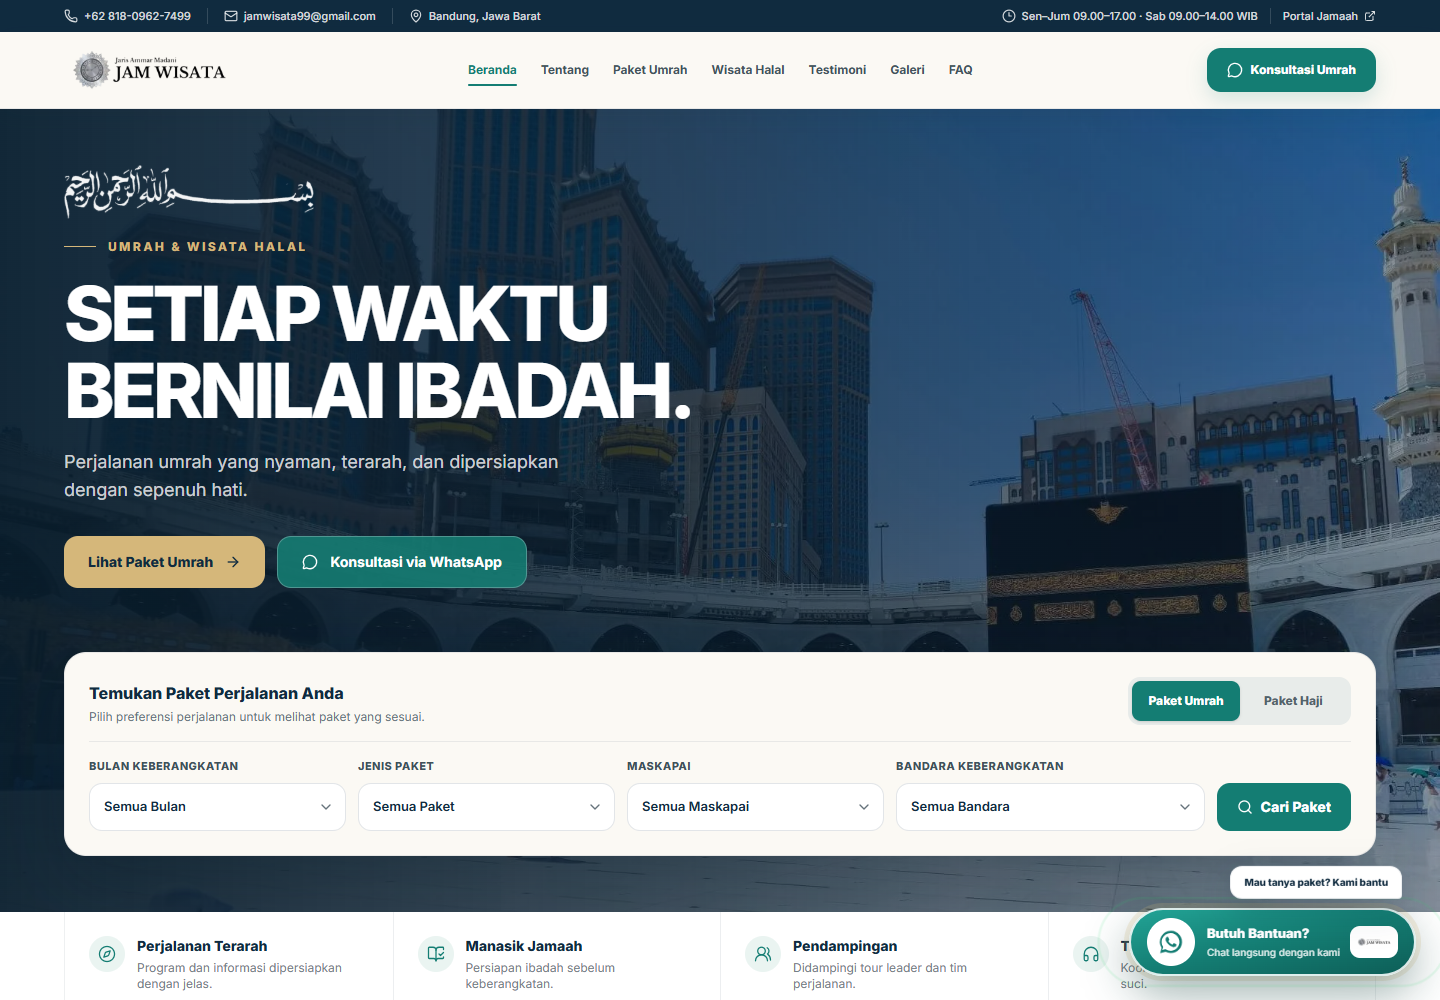
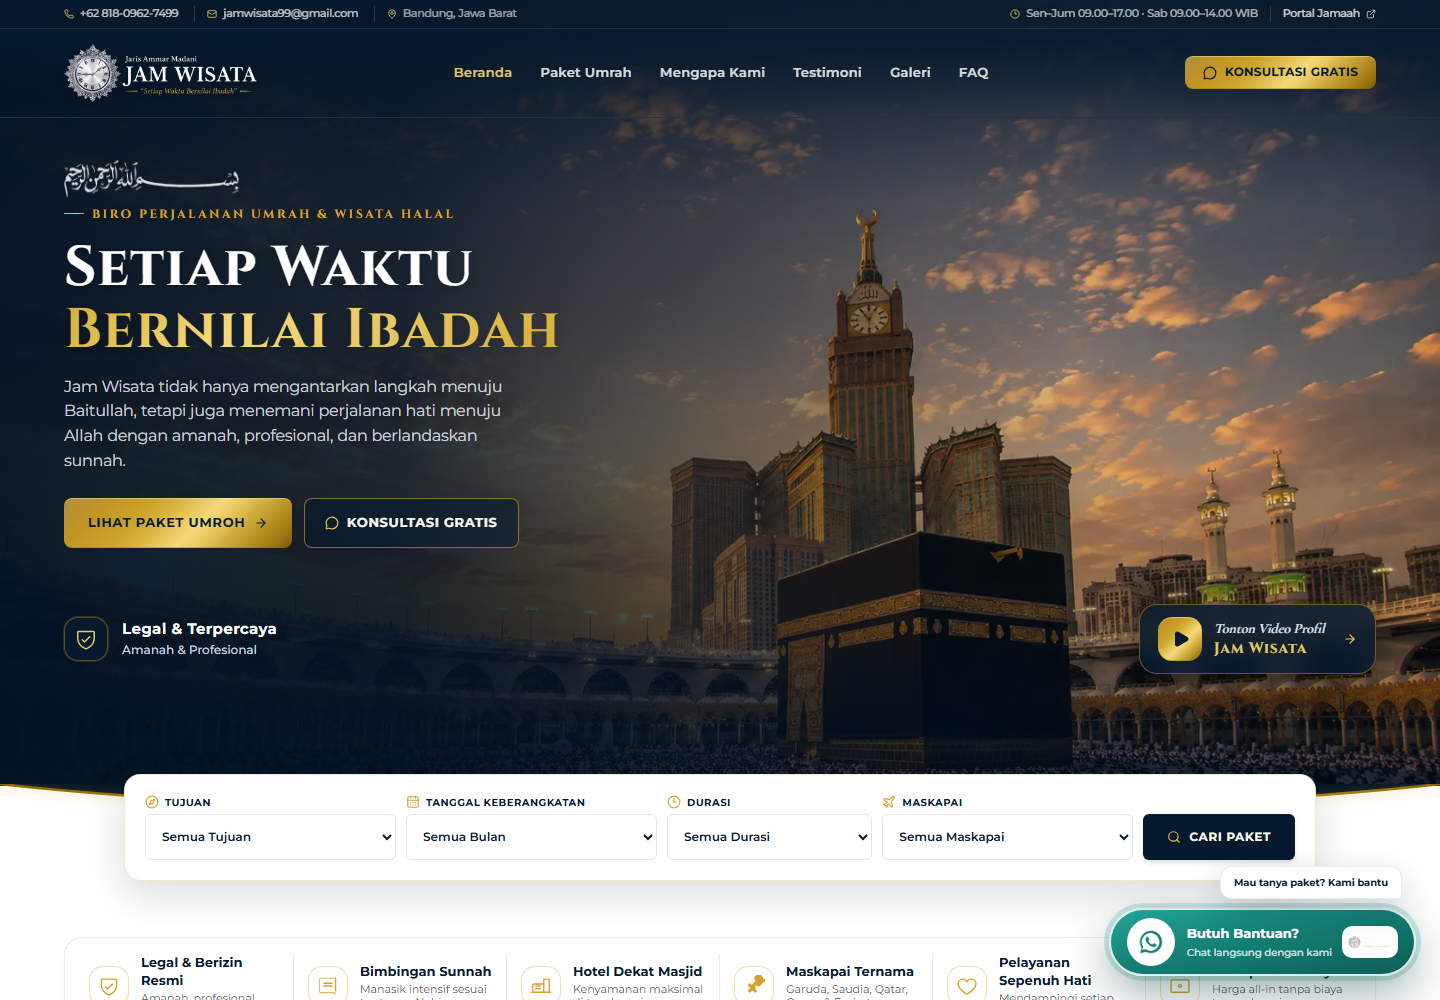
feat(work): add latest client projects

diff --git a/src/lib/work-content.ts b/src/lib/work-content.ts
@@ -9,6 +9,10 @@ export const featuredWorkSlugs = [
 
 export const selectedWorkSlugs = [
   "newsraya",
+  "dewa-konstruksi",
+  "dimsum",
+  "sewa-elf-bandung",
+  "add-logistics-landing-page",
   "studyshare",
   "sahabat-qolbu",
   "spectrasec",
@@ -60,7 +64,7 @@ export const workProjects: Record<WorkSlug, WorkProject> = {
     title: "JamWisata",
     category: { id: "Business Website · Tour & Travel", en: "Business Website · Tour & Travel" },
     image: "/images/work/jamwisata.png",
-    website: "https://jamwisata.hammad.studio/",
+    website: "https://www.jamwisata.id/",
     overview: { id: "Website Umrah dan wisata halal yang menyatukan brand, pencarian paket, jadwal keberangkatan, fasilitas, galeri, testimoni, serta konsultasi WhatsApp.", en: "An Umrah and halal travel website combining brand, package discovery, departure schedules, facilities, galleries, testimonials, and WhatsApp consultation." },
     challenge: { id: "Menyajikan banyak informasi perjalanan tanpa menghilangkan rasa tenang, kredibilitas, dan kemudahan calon jamaah menemukan paket.", en: "Presenting extensive travel information without losing calm, credibility, or making package discovery difficult for prospective pilgrims." },
     built: { id: "Experience travel dengan package finder, katalog Umrah dan wisata halal, trust signals, dokumentasi jamaah, FAQ, serta jalur konsultasi.", en: "A travel experience with package finder, Umrah and halal tour catalogues, trust signals, pilgrim documentation, FAQs, and consultation paths." },
@@ -397,7 +401,7 @@ export const workProjects: Record<WorkSlug, WorkProject> = {
       en: "Corporate Website · Logistics",
     },
     image: "/images/work/buraq-logistik.png",
-    website: "https://buraqlogistik.com/",
+    website: "https://buraqlogistik.hammad.studio/",
     overview: {
       id: "Website corporate untuk perusahaan logistik yang mengkomunikasikan layanan trucking, distribusi regional, cakupan pengiriman, dan kapabilitas operasional.",
       en: "A corporate website for a logistics company communicating trucking services, regional distribution, shipping coverage, and operational capabilities.",
@@ -543,6 +547,62 @@ export const workProjects: Record<WorkSlug, WorkProject> = {
       id: "Experience media yang terasa aktual, terstruktur, dan nyaman dipindai dari desktop maupun perangkat mobile.",
       en: "A media experience that feels current, structured, and easy to scan across desktop and mobile devices.",
     },
+    next: "dewa-konstruksi",
+  }),
+  "dewa-konstruksi": project({
+    slug: "dewa-konstruksi",
+    title: "Dewa Konstruksi",
+    category: { id: "Business Website · Construction", en: "Business Website · Construction" },
+    image: "/images/work/dewa-konstruksi.png",
+    website: "https://dewakonstruksi.hammad.studio/",
+    overview: { id: "Website kontraktor rumah untuk memperkenalkan layanan bangun baru, renovasi, perencanaan, portofolio proyek, proses kerja, dan konsultasi.", en: "A residential contractor website presenting new builds, renovations, planning, project work, process, and consultation." },
+    challenge: { id: "Membangun kepercayaan calon pemilik rumah melalui pesan yang tegas, proses yang transparan, dan bukti pekerjaan yang mudah dipahami.", en: "Building homeowner confidence through clear messaging, a transparent process, and easy-to-understand proof of work." },
+    built: { id: "Landing bisnis dengan hero berorientasi konsultasi, hierarchy layanan, showcase proyek, tahapan kerja, informasi tim, artikel, dan CTA WhatsApp.", en: "A consultation-led business landing page with service hierarchy, project showcase, work stages, team information, articles, and WhatsApp calls to action." },
+    experience: { id: "Pengunjung dapat memahami cakupan pembangunan, melihat cara kerja tim, meninjau proyek, lalu memulai konsultasi dengan cepat.", en: "Visitors can understand the construction scope, review the team's process and projects, then start a consultation quickly." },
+    features: ["Construction services", "Project showcase", "Work process", "Trust signals", "Articles", "WhatsApp consultation"],
+    outcome: { id: "Kehadiran digital kontraktor yang terlihat profesional sekaligus memudahkan calon klien memulai pembicaraan proyek.", en: "A professional contractor presence that makes it easier for prospective clients to begin a project conversation." },
+    next: "dimsum",
+  }),
+  dimsum: project({
+    slug: "dimsum",
+    title: "LalaGi Dimsum",
+    category: { id: "Commerce Website · Food & Beverage", en: "Commerce Website · Food & Beverage" },
+    image: "/images/work/dimsum.png",
+    website: "https://dimsum.hammad.studio/",
+    overview: { id: "Website kuliner untuk brand dimsum dengan menu, pilihan produk, pesanan acara, trust signal halal, dan pemesanan melalui WhatsApp.", en: "A culinary website for a dimsum brand with menus, product selections, event orders, halal trust signals, and WhatsApp ordering." },
+    challenge: { id: "Membuat produk makanan terasa menggugah secara visual sekaligus menjaga informasi menu dan jalur pemesanan tetap sederhana.", en: "Making the food feel visually appetising while keeping menu information and ordering straightforward." },
+    built: { id: "Storefront hangat dengan visual produk besar, navigasi menu, penawaran pesanan acara, brand story, dan CTA pesan yang selalu mudah dijangkau.", en: "A warm storefront with large product visuals, menu navigation, event-order offerings, brand story, and easily accessible ordering calls to action." },
+    experience: { id: "Customer dapat mengenal brand, menjelajahi menu, memilih kebutuhan personal atau acara, lalu memesan melalui WhatsApp.", en: "Customers can discover the brand, browse the menu, choose personal or event needs, and order through WhatsApp." },
+    features: ["Food menu", "Product showcase", "Event orders", "Halal trust signal", "Brand story", "WhatsApp ordering"],
+    outcome: { id: "Website kuliner yang mengubah visual produk menjadi jalur pemesanan yang jelas dan mobile-friendly.", en: "A culinary website turning strong product visuals into a clear, mobile-friendly ordering journey." },
+    next: "sewa-elf-bandung",
+  }),
+  "sewa-elf-bandung": project({
+    slug: "sewa-elf-bandung",
+    title: "Sewa Elf Bandung",
+    category: { id: "Rental Website · Transportation", en: "Rental Website · Transportation" },
+    image: "/images/work/sewa-elf-bandung.png",
+    website: "https://www.sewaelfbandung.com/",
+    overview: { id: "Website rental kendaraan rombongan di Bandung dengan armada, harga sewa, layanan perjalanan, area operasional, dan booking WhatsApp.", en: "A Bandung group-transport rental website with fleets, rental pricing, travel services, operating areas, and WhatsApp booking." },
+    challenge: { id: "Menyajikan pilihan armada dan layanan perjalanan agar mudah dibandingkan oleh keluarga, perusahaan, sekolah, maupun rombongan wisata.", en: "Presenting fleet and trip options that families, companies, schools, and tour groups can compare easily." },
+    built: { id: "Website rental dengan hero armada, price guidance, katalog kendaraan, service advantages, profil bisnis, lokasi, dan jalur booking langsung.", en: "A rental website with fleet-led hero, price guidance, vehicle catalogue, service advantages, business profile, location, and direct booking journey." },
+    experience: { id: "Calon penyewa dapat memahami kapasitas kendaraan, mengecek pilihan layanan, lalu meminta ketersediaan melalui WhatsApp.", en: "Prospective renters can understand vehicle capacity, review service options, then ask for availability through WhatsApp." },
+    features: ["Fleet catalogue", "Rental pricing", "Service coverage", "Vehicle capacity", "Business profile", "WhatsApp booking"],
+    outcome: { id: "Katalog rental yang mempercepat perjalanan dari pencarian kendaraan menuju permintaan booking.", en: "A rental catalogue shortening the journey from vehicle discovery to a booking request." },
+    next: "add-logistics-landing-page",
+  }),
+  "add-logistics-landing-page": project({
+    slug: "add-logistics-landing-page",
+    title: "ADD Logistics Landing Page",
+    category: { id: "Landing Page · Logistics", en: "Landing Page · Logistics" },
+    image: "/images/work/add-logistics-landing-page.png",
+    website: "https://add-logistics-landingpage.vercel.app/",
+    overview: { id: "Landing page PT Antaran Dua Dunia yang memadatkan layanan transportasi darat, armada, cakupan pengiriman, legalitas, dan konsultasi dalam satu halaman.", en: "A PT Antaran Dua Dunia landing page condensing land transportation, fleet, delivery coverage, legal information, and consultation into one page." },
+    challenge: { id: "Menyederhanakan informasi logistik B2B menjadi halaman ringkas yang tetap menunjukkan kapabilitas, keamanan, dan kredibilitas perusahaan.", en: "Simplifying B2B logistics information into a concise page while preserving capability, safety, and corporate credibility." },
+    built: { id: "Landing page dengan value proposition kuat, ringkasan layanan, armada, keunggulan operasional, legalitas perusahaan, dan CTA konsultasi.", en: "A landing page with a strong value proposition, service summary, fleet, operational advantages, company legality, and consultation calls to action." },
+    experience: { id: "Calon klien dapat menangkap layanan utama dan trust signal perusahaan tanpa harus menjelajahi banyak halaman.", en: "Prospective clients can grasp the core services and company trust signals without navigating many pages." },
+    features: ["B2B value proposition", "Service summary", "Fleet overview", "Legal information", "Trust signals", "Consultation CTA"],
+    outcome: { id: "Halaman akuisisi ringkas untuk menjelaskan layanan logistik dan membuka inquiry bisnis lebih cepat.", en: "A concise acquisition page explaining logistics services and opening business inquiries more quickly." },
     next: "jamwisata",
   }),
 };
